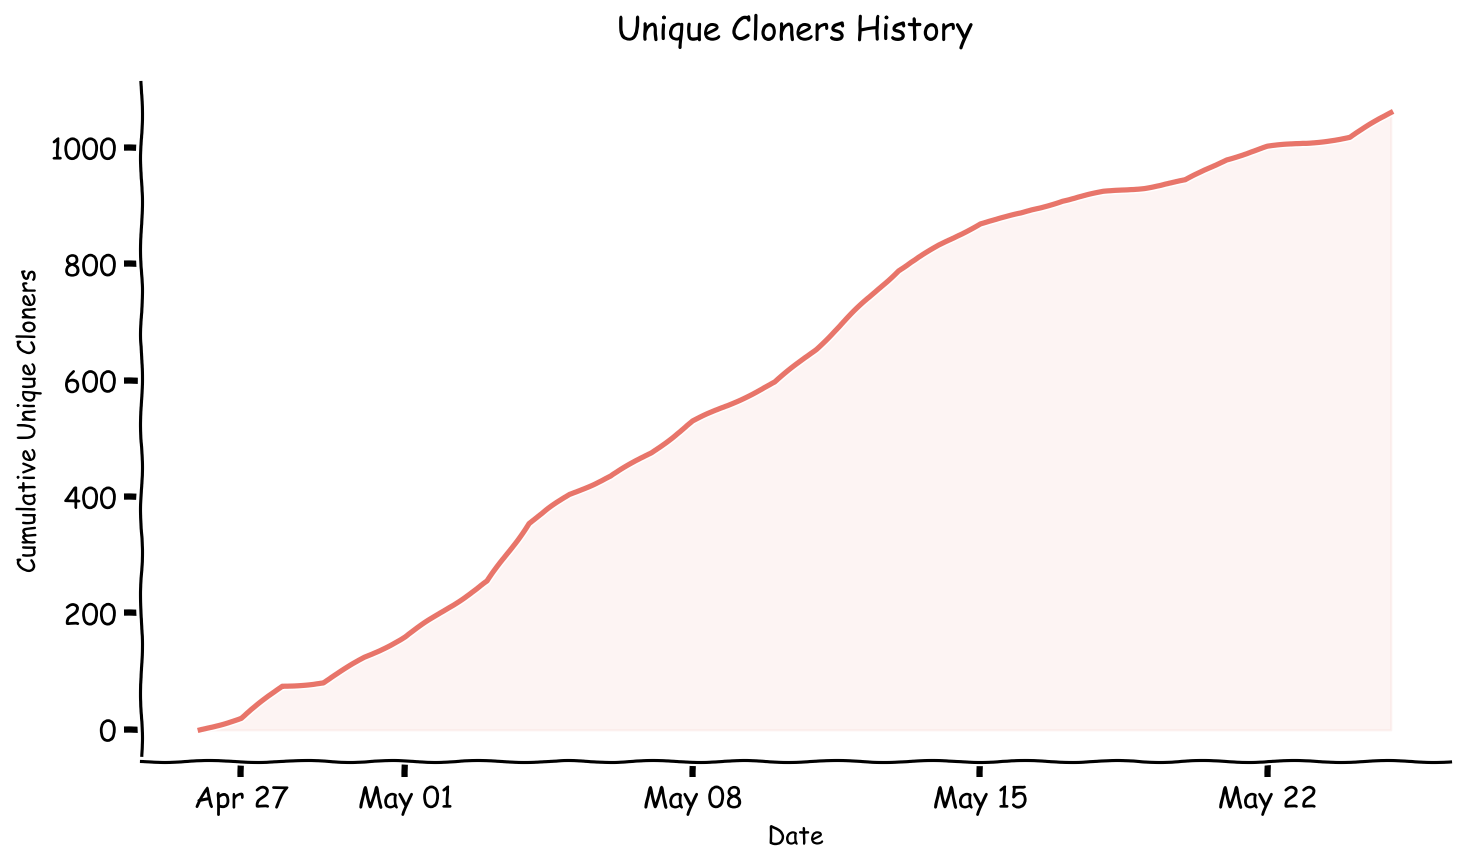
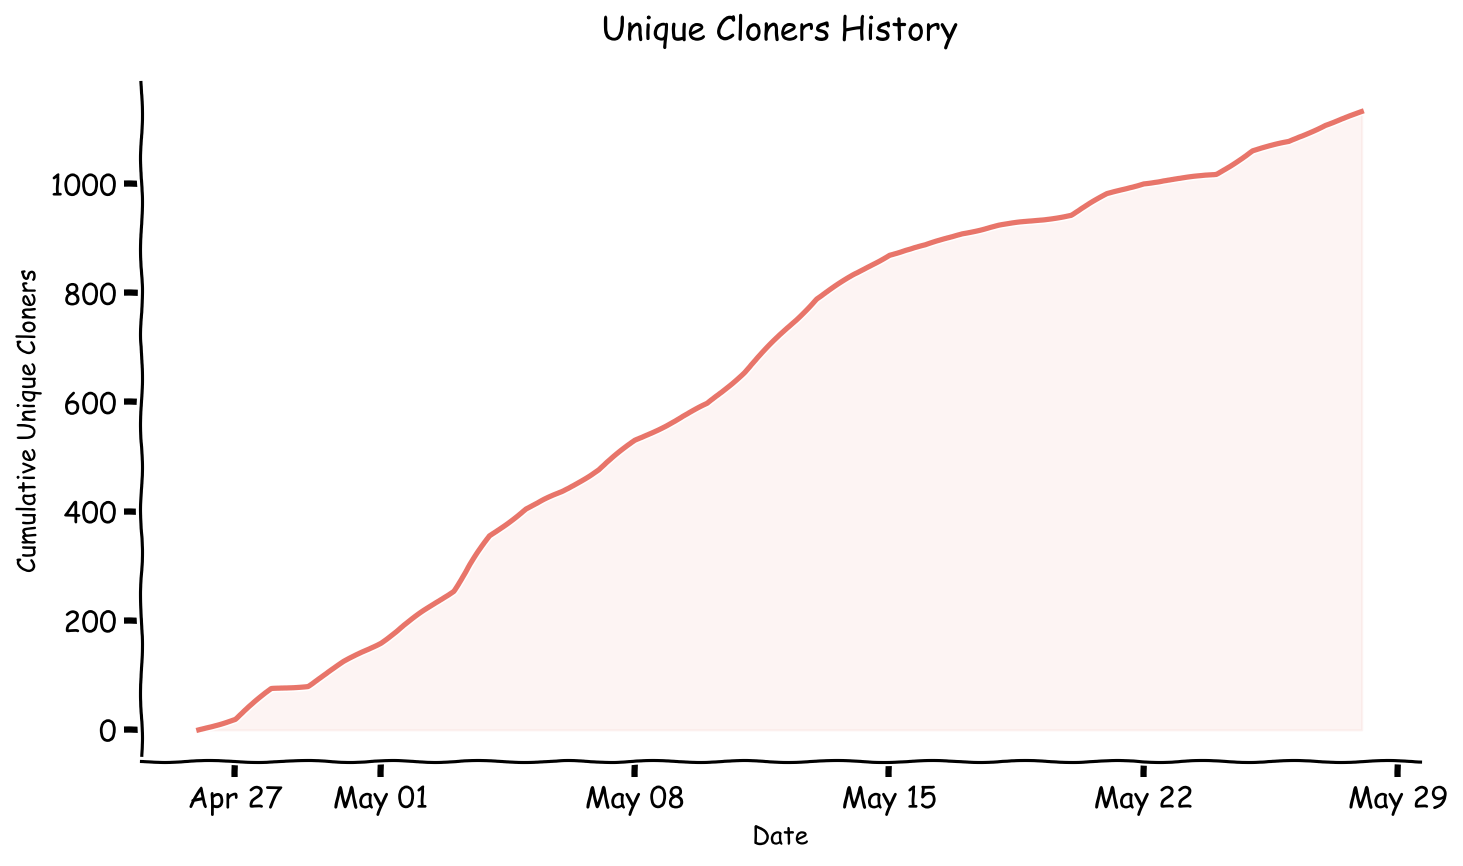
chore: auto update plot every friday (#31)

diff --git a/scripts/plot_cloners.py b/scripts/plot_cloners.py
@@ -1,0 +1,107 @@
+import csv
+import json
+from datetime import datetime, timedelta
+from pathlib import Path
+
+import matplotlib
+
+matplotlib.use("Agg")
+import matplotlib.pyplot as plt
+import matplotlib.dates as mdates
+
+DATA_DIR = Path(__file__).parent.parent / "docs" / "assets"
+HISTORY_FILE = DATA_DIR / "cloners_history.json"
+CSV_FILE = DATA_DIR / "Unique cloners.csv"
+
+
+def load_history() -> dict[str, int]:
+    if HISTORY_FILE.exists():
+        with open(HISTORY_FILE) as f:
+            return json.load(f)
+    return {}
+
+
+def save_history(history: dict[str, int]) -> None:
+    with open(HISTORY_FILE, "w") as f:
+        json.dump(history, f, indent=2, sort_keys=True)
+
+
+def merge_csv(history: dict[str, int]) -> dict[str, int]:
+    year = datetime.now().year
+    with open(CSV_FILE, newline="", encoding="utf-8-sig") as f:
+        reader = csv.DictReader(f)
+        reader.fieldnames = [k.strip('"') for k in reader.fieldnames]
+        for row in reader:
+            date_str = row["Category"].strip('"')
+            value = int(row["Unique"])
+            try:
+                dt = datetime.strptime(f"{date_str}/{year}", "%m/%d/%Y")
+            except ValueError:
+                continue
+            key = dt.strftime("%Y-%m-%d")
+            history[key] = max(history.get(key, 0), value)
+    return history
+
+
+def plot(history: dict[str, int]) -> Path:
+    dates_sorted = sorted(history.keys())
+    dt_dates = [datetime.strptime(d, "%Y-%m-%d") for d in dates_sorted]
+
+    cumulative: list[int] = []
+    total = 0
+    for d in dates_sorted:
+        total += history[d]
+        cumulative.append(total)
+
+    with plt.xkcd():
+        fig, ax = plt.subplots(figsize=(10, 6))
+        fig.patch.set_facecolor("white")
+        ax.set_facecolor("white")
+
+        ax.plot(dt_dates, cumulative, color="#E8756A", linewidth=2.5)
+        ax.fill_between(dt_dates, cumulative, alpha=0.08, color="#E8756A")
+
+        ax.set_title("Unique Cloners History", fontsize=16, pad=20)
+        ax.set_xlabel("Date", fontsize=12)
+        ax.set_ylabel("Cumulative Unique Cloners", fontsize=12)
+
+        launch = datetime(2026, 4, 27)
+        last_date = max(
+            dt_dates[-1],
+            datetime.now().replace(hour=0, minute=0, second=0, microsecond=0),
+        )
+        days_to_friday = (4 - (launch + timedelta(days=1)).weekday()) % 7
+        first_friday = launch + timedelta(days=1 + days_to_friday)
+        fridays: list[datetime] = []
+        d = first_friday
+        while d <= last_date:
+            fridays.append(d)
+            d += timedelta(weeks=1)
+        weekly_ticks = [launch] + fridays
+        ax.xaxis.set_major_formatter(mdates.DateFormatter("%b %d"))
+        ax.set_xticks(weekly_ticks)
+        fig.autofmt_xdate(rotation=0, ha="center")
+
+        ax.spines["top"].set_visible(False)
+        ax.spines["right"].set_visible(False)
+
+        plt.tight_layout()
+
+        out = DATA_DIR / f"unique_cloners_chart.png"
+        plt.savefig(out, dpi=150, bbox_inches="tight", facecolor="white")
+        plt.close()
+
+    return out
+
+
+def main() -> None:
+    history = load_history()
+    history = merge_csv(history)
+    save_history(history)
+    out = plot(history)
+    print(f"Saved: {out}")
+    print(f"Total unique cloners tracked: {sum(history.values())}")
+
+
+if __name__ == "__main__":
+    main()

diff --git a/scripts/update_cloners.py b/scripts/update_cloners.py
@@ -1,0 +1,64 @@
+import os
+import csv
+import requests
+from pathlib import Path
+from datetime import datetime
+
+OWNER = "ifixai-ai"
+REPO = "iFixAi"
+
+ROOT = Path(__file__).resolve().parent.parent
+DATA_DIR = ROOT / "docs" / "assets"
+
+CSV_FILE = DATA_DIR / "Unique cloners.csv"
+
+TOKEN = os.environ["GITHUB_TOKEN"]
+
+headers = {
+    "Authorization": f"Bearer {TOKEN}",
+    "Accept": "application/vnd.github+json",
+}
+
+url = f"https://api.github.com/repos/{OWNER}/{REPO}/traffic/clones"
+
+response = requests.get(url, headers=headers)
+response.raise_for_status()
+
+data = response.json()["clones"]
+
+existing_dates = set()
+
+if CSV_FILE.exists():
+    with open(CSV_FILE, newline="", encoding="utf-8-sig") as f:
+        reader = csv.DictReader(f)
+        reader.fieldnames = [k.strip('"') for k in reader.fieldnames]
+        for row in reader:
+            existing_dates.add(row["Category"])
+
+rows_to_add = []
+
+for item in data:
+    dt = datetime.fromisoformat(item["timestamp"].replace("Z", "+00:00"))
+    date_str = dt.strftime("%m/%d")
+
+    if date_str not in existing_dates:
+        rows_to_add.append({"Category": f"{date_str}", "Unique": item["uniques"]})
+
+needs_newline = False
+if CSV_FILE.exists() and CSV_FILE.stat().st_size > 0:
+    with open(CSV_FILE, "rb") as f:
+        f.seek(-1, os.SEEK_END)
+        needs_newline = f.read(1) != b"\n"
+
+with open(CSV_FILE, "a", newline="") as f:
+    if needs_newline:
+        f.write("\n")
+    writer = csv.DictWriter(
+        f,
+        fieldnames=["Category", "Unique"],
+        quoting=csv.QUOTE_NONNUMERIC,
+        lineterminator="\n",
+    )
+    writer.writerows(rows_to_add)
+
+print(f"Added {len(rows_to_add)} rows")